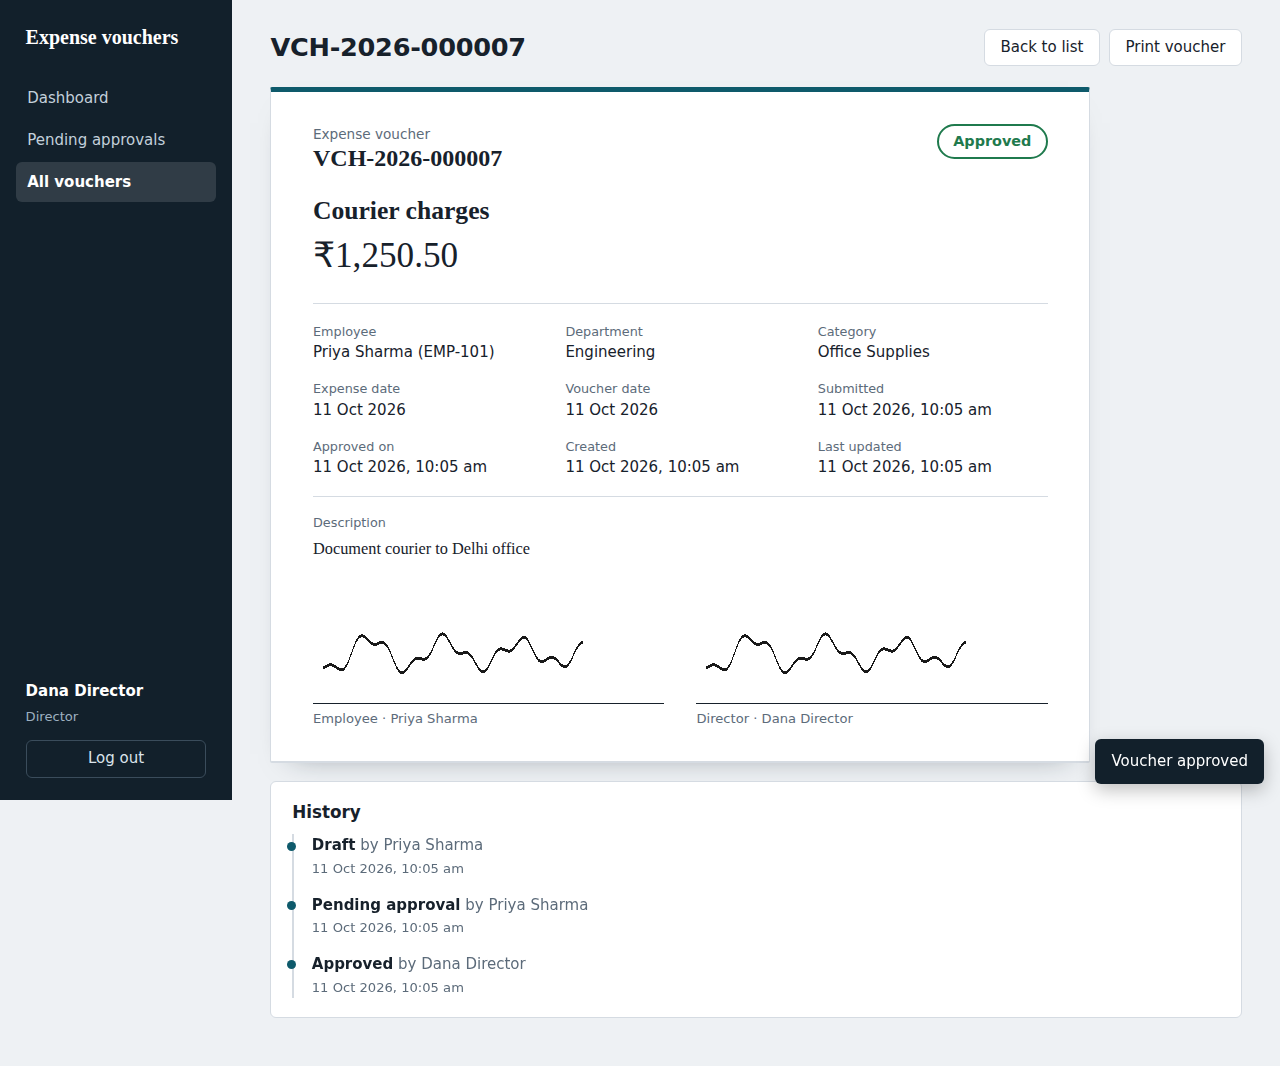
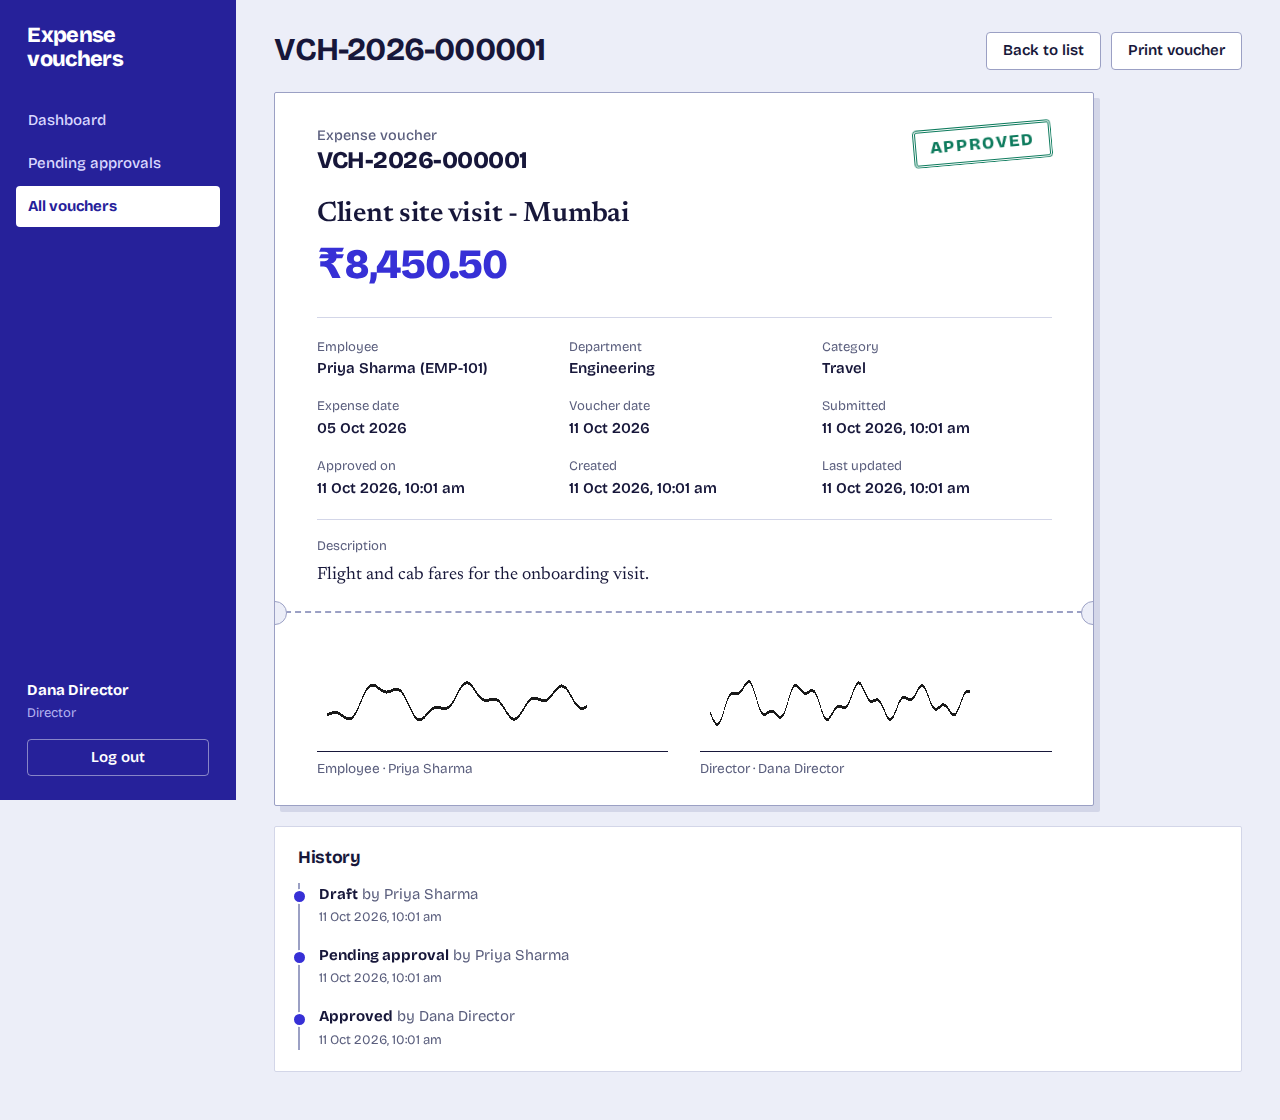
Redesign frontend

diff --git a/frontend/src/styles.css b/frontend/src/styles.css
@@ -1,30 +1,35 @@
+/* Design notes
+   Concept: accounting stationery. Ink-blue sidebar, ruled ledger tables, and a
+   voucher that looks like a tear-off ticket with a rubber-stamp status.
+   Type: Bricolage Grotesque for the interface, Newsreader for the voucher itself. */
 :root {
-  --bg: #eef1f4;
+  --bg: #eceef8;
   --surface: #ffffff;
-  --ink: #17212b;
-  --muted: #5c6b7a;
-  --line: #d5dbe2;
-  --accent: #0e5a6b;
+  --ink: #17173a;
+  --muted: #5b5f7e;
+  --line: #d3d6e8;
+  --line-strong: #9ba0c4;
+  --accent: #3730d6;
+  --accent-deep: #26219a;
   --accent-ink: #ffffff;
-  --approved: #1f7a4d;
-  --approved-bg: #e3f3ea;
-  --rejected: #b23a2e;
-  --rejected-bg: #fbe9e6;
-  --pending: #8a5a00;
-  --pending-bg: #fdf1d8;
-  --draft: #4a5868;
-  --draft-bg: #e6eaef;
-  --radius: 6px;
-  --sans: 'Public Sans', system-ui, -apple-system, 'Segoe UI', sans-serif;
-  --serif: 'Source Serif 4', Georgia, 'Times New Roman', serif;
+  --approved: #0c7a5c;
+  --approved-bg: #d9f1e8;
+  --rejected: #c2362b;
+  --rejected-bg: #fbe4e1;
+  --pending: #a55f00;
+  --pending-bg: #fdecc8;
+  --draft: #565b78;
+  --draft-bg: #e4e6f1;
+  --sans: 'Bricolage Grotesque', system-ui, -apple-system, 'Segoe UI', sans-serif;
+  --serif: 'Newsreader', Georgia, 'Times New Roman', serif;
 }
 
 * { box-sizing: border-box; }
 html, body { margin: 0; }
 body { font-family: var(--sans); color: var(--ink); background: var(--bg); font-size: 15px; line-height: 1.5; }
-h1, h2, h3 { margin: 0; line-height: 1.2; }
-h1 { font-size: 1.6rem; font-weight: 600; letter-spacing: -0.01em; }
-h2 { font-size: 1.05rem; font-weight: 600; }
+h1, h2, h3 { margin: 0; line-height: 1.15; font-weight: 700; letter-spacing: -0.015em; }
+h1 { font-size: 2rem; letter-spacing: -0.025em; }
+h2 { font-size: 1.1rem; }
 a { color: var(--accent); }
 .muted { color: var(--muted); }
 .small { font-size: 0.82rem; }
@@ -35,53 +40,57 @@ a { color: var(--accent); }
 .num { text-align: right; font-variant-numeric: tabular-nums; }
 
 :focus-visible { outline: 2px solid var(--accent); outline-offset: 2px; }
+.sidebar :focus-visible, .login-wrap :focus-visible { outline-color: #fff; }
 
 /* Buttons */
-.btn { font: inherit; font-weight: 500; border: 1px solid transparent; border-radius: var(--radius); padding: 0.5rem 0.95rem; cursor: pointer; text-decoration: none; display: inline-block; line-height: 1.3; transition: background-color 0.12s; }
+.btn { font: inherit; font-weight: 600; border: 1.5px solid transparent; border-radius: 4px; padding: 0.5rem 1rem; cursor: pointer; text-decoration: none; display: inline-block; line-height: 1.3; transition: background-color 0.12s, border-color 0.12s; }
 .btn:disabled { opacity: 0.55; cursor: not-allowed; }
 .btn-primary { background: var(--accent); color: var(--accent-ink); }
-.btn-primary:hover:not(:disabled) { background: #0b4957; }
-.btn-quiet { background: var(--surface); color: var(--ink); border-color: var(--line); }
-.btn-quiet:hover:not(:disabled) { background: #f4f6f8; }
+.btn-primary:hover:not(:disabled) { background: var(--accent-deep); }
+.btn-quiet { background: var(--surface); color: var(--ink); border-color: var(--line-strong); }
+.btn-quiet:hover:not(:disabled) { border-color: var(--ink); }
 .btn-danger { background: var(--rejected); color: #fff; }
-.btn-danger:hover:not(:disabled) { background: #8f2c22; }
+.btn-danger:hover:not(:disabled) { background: #9c2820; }
 .btn.danger { color: var(--rejected); }
 .btn.block { width: 100%; text-align: center; }
 
-/* Shell */
-.shell { display: grid; grid-template-columns: 232px 1fr; min-height: 100vh; }
-.sidebar { background: #12202b; color: #dbe4ec; padding: 1.4rem 1rem; display: flex; flex-direction: column; gap: 1.6rem; position: sticky; top: 0; height: 100vh; }
-.brand { font-family: var(--serif); font-size: 1.25rem; font-weight: 600; color: #fff; padding: 0 0.6rem; }
-.nav { display: flex; flex-direction: column; gap: 2px; }
-.nav a { color: #c3d0db; text-decoration: none; padding: 0.55rem 0.7rem; border-radius: var(--radius); }
-.nav a:hover { background: rgba(255, 255, 255, 0.07); }
-.nav a.active { background: rgba(255, 255, 255, 0.13); color: #fff; font-weight: 600; }
-.whoami { margin-top: auto; padding: 0 0.6rem; display: flex; flex-direction: column; gap: 0.25rem; }
-.whoami-name { color: #fff; font-weight: 600; }
-.whoami .muted { color: #9db0c0; }
-.whoami .btn { margin-top: 0.6rem; background: transparent; color: #dbe4ec; border-color: #3a4c5b; }
-.whoami .btn:hover { background: rgba(255, 255, 255, 0.08) !important; }
-.main { padding: 1.8rem clamp(1rem, 3vw, 2.4rem) 3rem; max-width: 1180px; width: 100%; }
-.page-head { display: flex; align-items: center; justify-content: space-between; gap: 1rem; flex-wrap: wrap; margin-bottom: 1.3rem; }
+/* Shell: the ink-blue sidebar is the strongest colour on the page */
+.shell { display: grid; grid-template-columns: 236px 1fr; min-height: 100vh; }
+.sidebar { background: var(--accent-deep); color: #d9d8ff; padding: 1.5rem 1rem; display: flex; flex-direction: column; gap: 1.8rem; position: sticky; top: 0; height: 100vh; }
+.brand { font-size: 1.35rem; font-weight: 800; letter-spacing: -0.03em; color: #fff; padding: 0 0.7rem; line-height: 1.1; }
+.nav { display: flex; flex-direction: column; gap: 3px; }
+.nav a { color: #d9d8ff; text-decoration: none; padding: 0.55rem 0.75rem; border-radius: 4px; font-weight: 500; }
+.nav a:hover { background: rgba(255, 255, 255, 0.12); }
+.nav a.active { background: #fff; color: var(--accent-deep); font-weight: 700; }
+.whoami { margin-top: auto; padding: 0 0.7rem; display: flex; flex-direction: column; gap: 0.2rem; }
+.whoami-name { color: #fff; font-weight: 700; }
+.whoami .muted { color: #b3b1f0; }
+.whoami .btn { margin-top: 0.7rem; background: transparent; color: #fff; border-color: rgba(255, 255, 255, 0.45); }
+.whoami .btn:hover { border-color: #fff !important; }
+.main { padding: 2rem clamp(1rem, 3vw, 2.6rem) 3rem; max-width: 1180px; width: 100%; }
+.page-head { display: flex; align-items: center; justify-content: space-between; gap: 1rem; flex-wrap: wrap; margin-bottom: 1.4rem; }
 .page-loading { padding: 3rem 0; color: var(--muted); }
 
-/* Panels, stats */
-.panel { background: var(--surface); border: 1px solid var(--line); border-radius: var(--radius); padding: 1.2rem 1.3rem; margin-top: 1.2rem; }
-.panel h2 { margin-bottom: 0.8rem; }
-.stats { display: grid; grid-template-columns: repeat(auto-fill, minmax(170px, 1fr)); gap: 0.8rem; }
-.stat { background: var(--surface); border: 1px solid var(--line); border-left: 4px solid var(--draft); border-radius: var(--radius); padding: 0.9rem 1rem; text-decoration: none; color: inherit; display: block; }
-a.stat:hover { background: #f8fafb; }
-.stat.pending { border-left-color: var(--pending); }
-.stat.approved { border-left-color: var(--approved); }
-.stat.rejected { border-left-color: var(--rejected); }
-.stat-value { font-size: 1.55rem; font-weight: 600; font-variant-numeric: tabular-nums; }
-.stat-label { color: var(--muted); font-size: 0.85rem; }
+/* Panels */
+.panel { background: var(--surface); border: 1px solid var(--line); border-radius: 2px; padding: 1.3rem 1.4rem; margin-top: 1.3rem; }
+.panel h2 { margin-bottom: 0.9rem; }
+
+/* Stats read as one ledger strip rather than separate cards */
+.stats { display: grid; grid-template-columns: repeat(auto-fit, minmax(200px, 1fr)); background: var(--surface); border-top: 1px solid var(--line); border-left: 1px solid var(--line); border-radius: 2px; }
+.stat { padding: 1.1rem 1.2rem; text-decoration: none; color: inherit; display: block; border-right: 1px solid var(--line); border-bottom: 1px solid var(--line); }
+a.stat:hover { background: #f6f7fd; }
+.stat-value { font-size: 1.9rem; font-weight: 700; letter-spacing: -0.03em; line-height: 1.1; font-variant-numeric: tabular-nums; }
+.stat-label { color: var(--muted); font-size: 0.88rem; margin-top: 0.25rem; }
+.stat.pending .stat-value { color: var(--pending); }
+.stat.approved .stat-value { color: var(--approved); }
+.stat.rejected .stat-value { color: var(--rejected); }
+
 .activity { list-style: none; margin: 0; padding: 0; }
-.activity li { display: grid; grid-template-columns: 150px 1fr auto 150px; gap: 0.8rem; align-items: center; padding: 0.6rem 0; border-top: 1px solid var(--line); }
+.activity li { display: grid; grid-template-columns: 160px 1fr auto 150px; gap: 0.8rem; align-items: center; padding: 0.65rem 0; border-top: 1px solid var(--line); }
 .activity li:first-child { border-top: 0; }
 
 /* Badges */
-.badge { display: inline-block; padding: 0.15rem 0.6rem; border-radius: 99px; font-size: 0.78rem; font-weight: 600; white-space: nowrap; }
+.badge { display: inline-block; padding: 0.15rem 0.65rem; border-radius: 99px; font-size: 0.78rem; font-weight: 700; white-space: nowrap; }
 .badge-draft { background: var(--draft-bg); color: var(--draft); }
 .badge-pending_approval { background: var(--pending-bg); color: var(--pending); }
 .badge-approved { background: var(--approved-bg); color: var(--approved); }
@@ -89,75 +98,90 @@ a.stat:hover { background: #f8fafb; }
 
 /* Forms */
 .field { display: flex; flex-direction: column; gap: 0.3rem; }
-.field label { font-weight: 500; font-size: 0.88rem; }
-input, select, textarea { font: inherit; color: inherit; background: #fff; border: 1px solid #b9c3ce; border-radius: var(--radius); padding: 0.5rem 0.65rem; width: 100%; }
+.field label { font-weight: 600; font-size: 0.88rem; }
+input, select, textarea { font: inherit; color: inherit; background: #fff; border: 1.5px solid var(--line-strong); border-radius: 4px; padding: 0.5rem 0.65rem; width: 100%; }
+input:focus, select:focus, textarea:focus { border-color: var(--accent); outline: none; box-shadow: 0 0 0 3px rgba(55, 48, 214, 0.18); }
 input[aria-invalid='true'], select[aria-invalid='true'] { border-color: var(--rejected); }
 textarea { resize: vertical; }
-.field-error { color: var(--rejected); font-size: 0.85rem; margin: 0.2rem 0 0; }
+.field-error { color: var(--rejected); font-size: 0.85rem; margin: 0.2rem 0 0; font-weight: 500; }
 .hint { color: var(--muted); font-size: 0.82rem; margin: 0.3rem 0 0; }
-.form-grid { display: grid; grid-template-columns: 1fr 1fr; gap: 1rem 1.2rem; max-width: 820px; }
+.form-grid { display: grid; grid-template-columns: 1fr 1fr; gap: 1.1rem 1.3rem; max-width: 820px; }
 .span-2 { grid-column: 1 / -1; }
 .actions { display: flex; justify-content: flex-end; gap: 0.6rem; flex-wrap: wrap; margin-top: 0.4rem; }
 .check { display: flex; gap: 0.5rem; align-items: center; margin-top: 0.7rem; font-size: 0.9rem; }
 .check input { width: auto; }
-.sig-box { border: 1px dashed #9aa8b6; border-radius: var(--radius); min-height: 112px; display: grid; place-items: center; background: #fafbfc; padding: 0.5rem; margin-bottom: 0.4rem; }
+.sig-box { border: 1.5px dashed var(--line-strong); border-radius: 2px; min-height: 112px; display: grid; place-items: center; background: #f8f9fe; padding: 0.5rem; margin-bottom: 0.4rem; }
 .sig-box.has-error { border-color: var(--rejected); }
 .sig-img { max-height: 100px; max-width: 100%; display: block; }
-.sig-skeleton { width: 140px; height: 50px; background: #e9edf1; border-radius: 4px; display: inline-block; }
+.sig-skeleton { width: 140px; height: 50px; background: #e4e7f4; border-radius: 2px; display: inline-block; }
 
-/* Login */
-.login-wrap { min-height: 100vh; display: grid; place-items: center; padding: 1.5rem; }
-.login-card { background: var(--surface); border: 1px solid var(--line); border-radius: 8px; padding: 2rem; width: min(400px, 100%); display: flex; flex-direction: column; gap: 1rem; }
-.login-card h1 { font-family: var(--serif); font-size: 1.9rem; }
+/* Login: a voucher-like sheet on a field of ink blue */
+.login-wrap { min-height: 100vh; display: grid; place-items: center; padding: 1.5rem; background: var(--accent-deep); }
+.login-card { background: var(--surface); border-radius: 2px; padding: 2.2rem; width: min(420px, 100%); display: flex; flex-direction: column; gap: 1rem; box-shadow: 8px 8px 0 rgba(10, 8, 80, 0.45); }
+.login-card h1 { font-size: 2.2rem; }
 .login-card p { margin: 0; }
-.demo { border-top: 1px solid var(--line); padding-top: 1rem; display: flex; flex-direction: column; gap: 0.5rem; }
+.demo { border-top: 2px dashed var(--line); padding-top: 1rem; display: flex; flex-direction: column; gap: 0.5rem; }
 
-/* List */
+/* List: ruled like a ledger */
 .toolbar { display: flex; gap: 0.6rem; margin-bottom: 0.8rem; }
 .search { max-width: 460px; }
-.filters { display: grid; grid-template-columns: repeat(auto-fill, minmax(190px, 1fr)); gap: 0.8rem; background: var(--surface); border: 1px solid var(--line); border-radius: var(--radius); padding: 1rem; margin-bottom: 0.8rem; }
+.filters { display: grid; grid-template-columns: repeat(auto-fill, minmax(190px, 1fr)); gap: 0.9rem; background: var(--surface); border: 1px solid var(--line); border-radius: 2px; padding: 1.1rem; margin-bottom: 0.8rem; }
 .field.end { justify-content: flex-end; align-items: flex-start; }
-.table-wrap { background: var(--surface); border: 1px solid var(--line); border-radius: var(--radius); overflow-x: auto; }
+.table-wrap { background: var(--surface); border: 1px solid var(--line); border-radius: 2px; overflow-x: auto; }
 .table { width: 100%; border-collapse: collapse; min-width: 680px; }
-.table th, .table td { padding: 0.7rem 0.9rem; text-align: left; border-top: 1px solid var(--line); vertical-align: top; }
-.table thead th { border-top: 0; background: #f6f8fa; font-size: 0.82rem; font-weight: 600; color: var(--muted); padding: 0; }
+.table th, .table td { padding: 0.8rem 0.95rem; text-align: left; border-top: 1px solid var(--line); vertical-align: top; }
+.table thead th { border-top: 0; border-bottom: 2px solid var(--ink); background: #f4f5fc; font-size: 0.85rem; font-weight: 700; padding: 0; }
 .table thead th.num { text-align: right; }
-.th-btn { font: inherit; font-weight: 600; color: inherit; background: none; border: 0; padding: 0.7rem 0.9rem; width: 100%; text-align: inherit; cursor: pointer; }
-.th-btn:hover { color: var(--ink); }
-.empty { text-align: center !important; color: var(--muted); padding: 2.2rem 1rem !important; }
+.table tbody tr:hover { background: #f7f8fe; }
+.th-btn { font: inherit; font-weight: 700; color: var(--ink); background: none; border: 0; padding: 0.75rem 0.95rem; width: 100%; text-align: inherit; cursor: pointer; }
+.th-btn:hover { color: var(--accent); }
+.empty { text-align: center !important; color: var(--muted); padding: 2.4rem 1rem !important; }
 .list-foot { display: flex; justify-content: space-between; align-items: center; gap: 1rem; flex-wrap: wrap; margin-top: 0.8rem; }
 .pagination { display: flex; align-items: center; gap: 0.8rem; font-size: 0.88rem; }
 
-/* Voucher paper: the one distinctive element */
-.voucher-paper { background: #fff; border: 1px solid var(--line); border-top: 5px solid var(--accent); border-radius: 2px; padding: 2rem clamp(1.2rem, 4vw, 2.6rem); max-width: 820px; box-shadow: 0 1px 0 var(--line), 0 14px 28px -22px rgba(18, 32, 43, 0.5); }
+/* Voucher: a tear-off ticket with a rubber stamp. This is the memorable part. */
+.voucher-paper { --pad: clamp(1.2rem, 4vw, 2.6rem); background: #fff; border: 1px solid var(--line-strong); border-radius: 2px; padding: 2rem var(--pad) 1.6rem; max-width: 820px; box-shadow: 6px 6px 0 var(--line); position: relative; overflow: hidden; }
 .paper-head { display: flex; justify-content: space-between; align-items: flex-start; gap: 1rem; }
-.paper-kicker { color: var(--muted); font-size: 0.85rem; }
-.paper-number { font-family: var(--serif); font-size: 1.5rem; font-weight: 600; }
-.stamp .badge { font-size: 0.9rem; padding: 0.3rem 0.9rem; border: 2px solid currentColor; background: transparent; }
-.paper-title { font-family: var(--serif); font-size: 1.6rem; font-weight: 600; margin-top: 1.4rem; }
-.paper-amount { font-family: var(--serif); font-size: 2.2rem; margin: 0.2rem 0 1.3rem; font-variant-numeric: tabular-nums; }
-.paper-grid { display: grid; grid-template-columns: repeat(auto-fill, minmax(200px, 1fr)); gap: 1rem 1.4rem; margin: 0; padding: 1.1rem 0; border-top: 1px solid var(--line); border-bottom: 1px solid var(--line); }
-.paper-grid dt, .paper-desc dt { color: var(--muted); font-size: 0.8rem; }
-.paper-grid dd { margin: 0; font-weight: 500; }
-.paper-desc { padding: 1rem 0; }
-.paper-desc p { margin: 0.2rem 0 0; font-family: var(--serif); font-size: 1.02rem; line-height: 1.6; white-space: pre-wrap; max-width: 66ch; }
-.signatures { display: grid; grid-template-columns: 1fr 1fr; gap: 2rem; margin-top: 1rem; }
+.paper-kicker { color: var(--muted); font-size: 0.9rem; font-weight: 500; }
+.paper-number { font-size: 1.5rem; font-weight: 800; letter-spacing: -0.02em; }
+.stamp { border: 3px double currentColor; border-radius: 4px; padding: 0.2rem 0.85rem; transform: rotate(-5deg); transform-origin: center; animation: stamp-down 0.35s cubic-bezier(0.2, 0.9, 0.3, 1.2) both; mix-blend-mode: multiply; }
+.stamp .badge { background: transparent; color: inherit; padding: 0; border-radius: 0; font-size: 1.05rem; font-weight: 800; letter-spacing: 0.1em; text-transform: uppercase; }
+.stamp-draft { color: var(--draft); }
+.stamp-pending_approval { color: var(--pending); }
+.stamp-approved { color: var(--approved); }
+.stamp-rejected { color: var(--rejected); }
+@keyframes stamp-down { from { transform: rotate(-5deg) scale(1.55); opacity: 0; } to { transform: rotate(-5deg) scale(1); opacity: 1; } }
+
+.paper-title { font-family: var(--serif); font-size: 1.75rem; font-weight: 600; margin-top: 1.5rem; letter-spacing: -0.01em; }
+.paper-amount { font-size: 2.6rem; font-weight: 800; letter-spacing: -0.04em; margin: 0.15rem 0 1.4rem; font-variant-numeric: tabular-nums; color: var(--accent); }
+.paper-grid { display: grid; grid-template-columns: repeat(auto-fill, minmax(200px, 1fr)); gap: 1.1rem 1.4rem; margin: 0; padding: 1.2rem 0; border-top: 1px solid var(--line); border-bottom: 1px solid var(--line); }
+.paper-grid dt, .paper-desc dt { color: var(--muted); font-size: 0.82rem; }
+.paper-grid dd { margin: 0; font-weight: 600; }
+.paper-desc { padding: 1.1rem 0 1.4rem; }
+.paper-desc p { margin: 0.25rem 0 0; font-family: var(--serif); font-size: 1.1rem; line-height: 1.6; white-space: pre-wrap; max-width: 62ch; }
+
+/* The tear line, with a notch cut out of each edge */
+.signatures { display: grid; grid-template-columns: 1fr 1fr; gap: 2rem; position: relative; margin: 0 calc(var(--pad) * -1); padding: 1.8rem var(--pad) 0; border-top: 2px dashed var(--line-strong); }
+.signatures::before, .signatures::after { content: ''; position: absolute; top: -12px; width: 22px; height: 22px; border-radius: 50%; background: var(--bg); border: 1px solid var(--line-strong); }
+.signatures::before { left: -12px; }
+.signatures::after { right: -12px; }
 .signatures figure { margin: 0; }
 .sig-slot { height: 110px; border-bottom: 1.5px solid var(--ink); display: flex; align-items: flex-end; padding-bottom: 0.3rem; }
-.signatures figcaption { font-size: 0.82rem; color: var(--muted); margin-top: 0.35rem; }
-.banner { border-radius: var(--radius); padding: 0.9rem 1.1rem; margin-bottom: 1.1rem; max-width: 820px; }
+.signatures figcaption { font-size: 0.85rem; color: var(--muted); margin-top: 0.4rem; }
+
+.banner { border-radius: 2px; padding: 0.95rem 1.2rem; margin-bottom: 1.2rem; max-width: 820px; }
 .banner p { margin: 0.25rem 0 0; }
-.banner-rejected { background: var(--rejected-bg); color: #7d241b; border: 1px solid #efc3bd; }
-.timeline { list-style: none; margin: 0; padding: 0 0 0 1.1rem; border-left: 2px solid var(--line); display: flex; flex-direction: column; gap: 0.9rem; }
+.banner-rejected { background: var(--rejected-bg); color: #7d241b; border: 1.5px solid var(--rejected); }
+.timeline { list-style: none; margin: 0; padding: 0 0 0 1.2rem; border-left: 2px solid var(--line-strong); display: flex; flex-direction: column; gap: 1rem; }
 .timeline li { position: relative; }
-.timeline li::before { content: ''; position: absolute; left: -1.55rem; top: 0.45rem; width: 9px; height: 9px; border-radius: 50%; background: var(--accent); }
+.timeline li::before { content: ''; position: absolute; left: -1.7rem; top: 0.4rem; width: 11px; height: 11px; border-radius: 50%; background: var(--accent); border: 2px solid var(--surface); }
 
 /* Modal, toast */
-.modal-backdrop { position: fixed; inset: 0; background: rgba(18, 32, 43, 0.5); display: grid; place-items: center; padding: 1rem; z-index: 50; }
-.modal { background: #fff; border-radius: 8px; padding: 1.5rem; width: min(480px, 100%); max-height: 92vh; overflow: auto; display: flex; flex-direction: column; gap: 0.9rem; }
+.modal-backdrop { position: fixed; inset: 0; background: rgba(23, 23, 58, 0.6); display: grid; place-items: center; padding: 1rem; z-index: 50; }
+.modal { background: #fff; border-radius: 2px; padding: 1.6rem; width: min(480px, 100%); max-height: 92vh; overflow: auto; display: flex; flex-direction: column; gap: 0.9rem; box-shadow: 8px 8px 0 rgba(10, 8, 80, 0.35); }
 .modal p { margin: 0; }
 .toasts { position: fixed; right: 1rem; bottom: 1rem; display: flex; flex-direction: column; gap: 0.5rem; z-index: 60; }
-.toast { background: #12202b; color: #fff; padding: 0.7rem 1rem; border-radius: var(--radius); box-shadow: 0 6px 18px rgba(0, 0, 0, 0.25); }
+.toast { background: var(--ink); color: #fff; padding: 0.75rem 1.1rem; border-radius: 4px; font-weight: 500; box-shadow: 4px 4px 0 rgba(23, 23, 58, 0.25); }
 .toast-error { background: var(--rejected); }
 
 /* Responsive */
@@ -173,9 +197,13 @@ textarea { resize: vertical; }
 }
 @media (max-width: 600px) {
   .form-grid { grid-template-columns: 1fr; }
-  .signatures { grid-template-columns: 1fr; gap: 1.2rem; }
+  .signatures { grid-template-columns: 1fr; gap: 1.4rem; }
+  .paper-amount { font-size: 2.1rem; }
 }
-@media (prefers-reduced-motion: reduce) { * { transition: none !important; } }
+@media (prefers-reduced-motion: reduce) {
+  * { transition: none !important; }
+  .stamp { animation: none; }
+}
 
 /* Print: only the voucher itself */
 @media print {
@@ -184,4 +212,6 @@ textarea { resize: vertical; }
   .shell { display: block; }
   .main { padding: 0; max-width: none; }
   .voucher-paper { box-shadow: none; border: 1px solid #999; max-width: none; }
+  .signatures::before, .signatures::after { display: none; }
+  .stamp { animation: none; }
 }

diff --git a/frontend/index.html b/frontend/index.html
@@ -6,7 +6,7 @@
     <title>Expense Vouchers</title>
     <link rel="preconnect" href="https://fonts.googleapis.com" />
     <link rel="preconnect" href="https://fonts.gstatic.com" crossorigin />
-    <link href="https://fonts.googleapis.com/css2?family=Public+Sans:wght@400;500;600;700&family=Source+Serif+4:opsz,wght@8..60,400;8..60,600&display=swap" rel="stylesheet" />
+    <link href="https://fonts.googleapis.com/css2?family=Bricolage+Grotesque:opsz,wght@12..96,400..800&family=Newsreader:opsz,wght@6..72,400..600&display=swap" rel="stylesheet" />
   </head>
   <body>
     <div id="root"></div>
